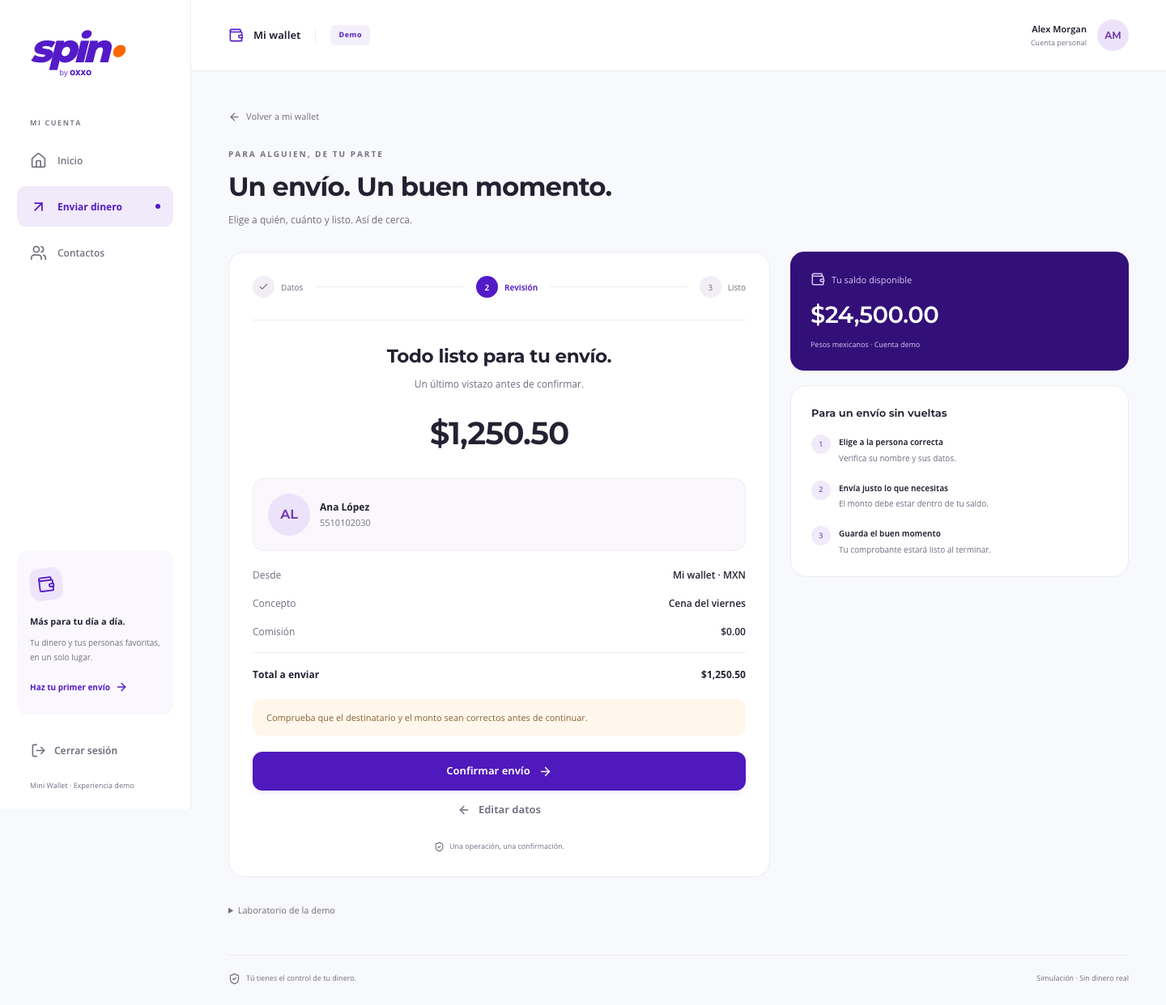
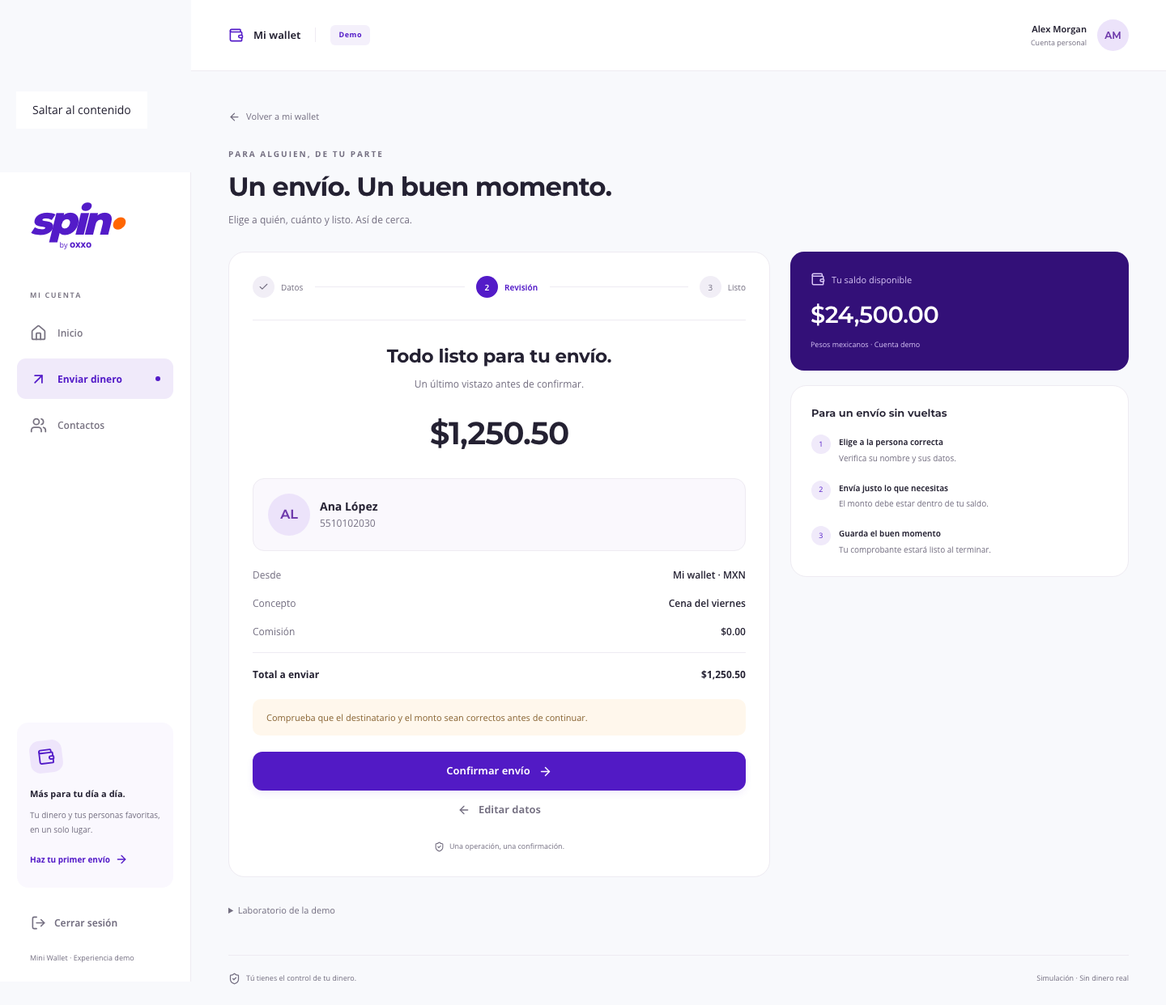
docs: finalize delivery evidence effort estimate and wallet previews

diff --git a/README.md b/README.md
@@ -1,6 +1,6 @@
 # Spin · Mini Wallet
 
-Una simulación de wallet construida con Next.js y TypeScript. Permite iniciar una sesión demo, consultar saldo y movimientos, guardar contactos, revisar un envío y obtener su comprobante. Incluye escenarios de fallo reproducibles y protección contra cargos duplicados.
+Una simulación de wallet construida con Next.js y TypeScript. Permite iniciar una sesión demo, consultar saldo y movimientos, guardar contactos, revisar un envío y obtener su comprobante. Conserva borradores entre pantallas, recupera operaciones inciertas y ofrece escenarios reproducibles y diagnóstico por solicitud.
 
 **No mueve dinero real ni autentica identidades.** Está diseñada para ejecutarse como un único proceso local de Node.js.
 
@@ -8,7 +8,7 @@ Una simulación de wallet construida con Next.js y TypeScript. Permite iniciar u
 
 ![Home de la wallet](docs/screenshots/home.png)
 
-[Login](docs/screenshots/login.png) · [Móvil](docs/screenshots/home-mobile.png) · [Revisión del envío](docs/screenshots/review.png) · [Comprobante](docs/screenshots/receipt.png)
+[Login](docs/screenshots/login.png) · [Home móvil](docs/screenshots/home-mobile.png) · [Envío móvil](docs/screenshots/transfer-mobile.png) · [Revisión del envío](docs/screenshots/review.png) · [Comprobante](docs/screenshots/receipt.png)
 
 ## Ejecutar
 
@@ -45,6 +45,7 @@ Los datos se reinician al cambiar de proceso. Si tenías una sesión anterior, v
 4. **Enviar dinero:** elige contacto, ingresa monto y concepto opcional. Los atajos de monto son editables. No se cobra comisión en esta simulación.
 5. **Revisar envío:** verifica destinatario, monto y total antes de confirmar. Editar conserva los datos del formulario.
 6. **Comprobante:** referencia, importe, contacto, concepto y fecha en Ciudad de México. Se puede recargar y abrir desde los movimientos. **Guardar comprobante** abre la impresión del navegador; selecciona Guardar como PDF.
+7. **Continuidad:** escribe un borrador, visita Contactos y vuelve. Durante un envío puedes ir a Inicio: el aviso indica su estado sin sacarte de la pantalla. «Hacer otro envío» inicia una intención nueva.
 
 ### Laboratorio de la demo
 
@@ -55,18 +56,20 @@ Con `NEXT_PUBLIC_DEMO_CONTROLS=true`, aparece un panel desplegable al final del 
 | Home          | Normal / Sin movimientos / Error de servicio | Carga, lista, vacío, error y recuperación sin borrar datos                                                          |
 | Transferencia | Aleatorio                                    | 60% éxito; 10% cada uno: red, fondos insuficientes, timeout y desconocido                                           |
 | Transferencia | Éxito                                        | Saldo actualizado y comprobante                                                                                     |
-| Transferencia | Error de red                                 | Fallo 503 sin cargo; seleccionar Éxito y reintentar                                                                 |
+| Transferencia | Error de red                                 | Fallo 503 simulado; verificar resultado y, si es desconocido, seleccionar Éxito y reintentar el mismo envío         |
 | Transferencia | Fondos insuficientes                         | Rechazo 422 y actualización de saldo; también ocurre realmente al exceder el disponible                             |
 | Transferencia | Timeout                                      | Simula un cargo confirmado cuya respuesta se perdió; **Verificar resultado** recupera el comprobante sin otro cargo |
-| Transferencia | Error desconocido                            | Fallback 500; seleccionar Éxito y reintentar                                                                        |
+| Transferencia | Error desconocido                            | Fallback 500; consultar resultado y, si sigue desconocido, reintentar la misma intención                            |
 
 El escenario forzado se mantiene seleccionado hasta cambiarlo; un reintento de un fallo de red forzado vuelve a fallar mientras siga seleccionado. Un pago ya confirmado devuelve siempre su comprobante, independientemente del escenario posterior.
 
-La UI trata los errores ambiguos como operaciones pendientes: conserva la misma clave. Si sales y regresas, recupera el envío pendiente en esa pestaña mediante `sessionStorage`. El cliente también cancela solicitudes que superen **8 segundos**. El timeout demostrativo del servidor responde 504 tras 1.8 segundos para no hacer lenta la evaluación.
+La UI trata los errores ambiguos como operaciones pendientes: conserva la misma clave. **Verificar resultado** hace un GET sin efectos. `unknown` no demuestra que el primer intento haya fallado; se permite consultar de nuevo o reintentar expresamente el mismo envío. La intención enviada se recupera en esa pestaña mediante `sessionStorage`; un borrador todavía no enviado vive solo en memoria entre rutas. El cliente cancela solicitudes que superen **8 segundos**; cancelar el fetch no revierte un pago. El timeout demostrativo del servidor responde 504 tras 1.8 segundos para no hacer lenta la evaluación.
 
 Si desactivas los controles y reinicias/recompilas, los headers de simulación se ignoran; las transferencias siguen siendo aleatorias. `NEXT_PUBLIC_` es configuración pública de build, nunca un secreto.
 
 ## Verificación
+
+Antes de ejecutar E2E en desarrollo, detén con `Ctrl+C` cualquier `npm run dev` de este mismo proyecto y deja libre el puerto 3100. Next.js bloquea un segundo servidor de desarrollo que utilice el mismo directorio de compilación, aunque escuche en otro puerto. Playwright inicia y detiene su propio servidor.
 
 ```bash
 npm run check           # formato, lint, tipos, unitarias y build
@@ -80,7 +83,7 @@ npm run test:watch      # pruebas unitarias durante cambios
 npm run format         # aplicar formato
 ```
 
-Verificación local: **69 pruebas unitarias** y **32 casos E2E**, aprobados tanto con servidor de desarrollo como con el build de producción. Formato, lint, tipos y compilación también aprobados.
+La suite cubre reglas de negocio, estados compartidos, sesiones, idempotencia, recuperación, diagnóstico y accesibilidad.
 
 Playwright ejecuta Chromium en escritorio y viewport móvil. La emulación móvil no sustituye pruebas en Safari/iOS reales. Usa contextos de sesión independientes y datos mock locales; no llama servicios financieros externos. Las pruebas incluyen axe sobre login, Home, resumen y comprobante.
 
@@ -91,7 +94,24 @@ NEXT_PUBLIC_DEMO_CONTROLS=true npm run build
 E2E_PRODUCTION=true npm run test:e2e
 ```
 
+Para comprobar el build con laboratorio deshabilitado:
+
+```bash
+NEXT_PUBLIC_DEMO_CONTROLS=false npm run build
+NEXT_PUBLIC_DEMO_CONTROLS=false E2E_PRODUCTION=true E2E_DEMO_DISABLED=true npm run test:e2e -- --project=desktop
+```
+
+Después recompila con `NEXT_PUBLIC_DEMO_CONTROLS=true` para volver a demostrar escenarios deterministas. Las operaciones normales siguen siendo aleatorias cuando el laboratorio está apagado.
+
 En PowerShell configura las variables con `$env:NEXT_PUBLIC_DEMO_CONTROLS="true"` y `$env:E2E_PRODUCTION="true"` antes del comando correspondiente.
+
+Última verificación local, **19 de noviembre de 2026**:
+
+- `npm run check`: formato, lint, tipos, **116 pruebas unitarias/de componentes** y build correctos.
+- Build de producción con laboratorio: **48 pruebas E2E** correctas, entre escritorio y viewport móvil.
+- Build de producción sin laboratorio: **1 smoke test** correcto.
+- `npm audit --omit=dev`: **0 vulnerabilidades** reportadas. La alerta de herramientas de desarrollo se detalla en límites conocidos.
+- Build final recompilado con laboratorio habilitado para facilitar la evaluación.
 
 ## Estructura
 
@@ -99,16 +119,17 @@ En PowerShell configura las variables con `$env:NEXT_PUBLIC_DEMO_CONTROLS="true"
 src/
   app/                     Rutas, layouts, errores globales y API
     (wallet)/              Rutas con comprobación de sesión en servidor
-    api/                   Session, wallet, contacts y transfers
+    api/                   Session, wallet, contacts, transfers y operations
   features/
-    auth/                  Formulario de acceso
+    auth/                  Formulario de acceso y frontera de sesión
     contacts/              Alta y búsqueda de contactos
     wallet/                Home y consulta de saldo/movimientos
-    transfers/             Formulario, revisión, hook de estados y comprobante
+    transfers/             Store Zustand, provider, formulario, revisión, aviso y comprobante
   components/              Shell, proveedores y UI compartida
   lib/                     Contratos Zod, dinero, HTTP, errores y eventos de sesión
-  server/                  Servicio mock, memoria de sesión y utilidades HTTP
+  server/                  Servicio mock, fixtures, simulación, configuración y diagnóstico HTTP
 tests/e2e/                 Flujos reales contra API y navegador
+tests/smoke/               Build sin laboratorio
 ```
 
 Los archivos `.test.ts(x)` están junto a las unidades que prueban. `next-env.d.ts` se genera automáticamente y no se versiona. `AGENTS.md` contiene las indicaciones que genera Next.js para sus herramientas.
@@ -121,6 +142,7 @@ Los archivos `.test.ts(x)` están junto a las unidades que prueban. `next-env.d.
 | TypeScript                        | Contratos y estados discriminados, configuración estricta                       |
 | Zod                               | Validación de entradas y respuestas; tipos inferidos de un contrato compartido  |
 | TanStack Query                    | Caché de datos remotos, carga, error e invalidación                             |
+| Zustand                           | Borrador e intención activa compartidos entre rutas, con instancia por wallet   |
 | Lucide React                      | Iconos SVG                                                                      |
 | Fontsource Montserrat / Open Sans | Fuentes locales sin solicitudes a Google en ejecución                           |
 | Vitest + Testing Library          | Reglas monetarias, servicio, HTTP, formulario y hook de envío                   |
@@ -131,24 +153,58 @@ Versiones exactas en `package.json` y resoluciones reproducibles en `package-loc
 
 ## Contrato HTTP
 
-Todos los endpoints responden JSON y `Cache-Control: private, no-store`. Los errores tienen `{ "error": { "code": "…", "message": "…" } }`.
+Todos los endpoints responden JSON y `Cache-Control: private, no-store`. Incluyen `X-Request-ID`. Los errores tienen `{ "error": { "code": "…", "message": "…", "requestId": "…" } }`.
 
-| Método y ruta            | Uso                                                                         |
-| ------------------------ | --------------------------------------------------------------------------- |
-| `POST /api/session`      | `{ identity }`; crea cookie HttpOnly y una sesión nueva                     |
-| `DELETE /api/session`    | Revoca sesión y elimina cookie                                              |
-| `GET /api/wallet`        | Usuario, `id` público de wallet, saldo en centavos, contactos y movimientos |
-| `POST /api/contacts`     | `{ walletId, name, identity }`; valida sesión y duplicados                  |
-| `POST /api/transfers`    | `{ walletId, recipientId, amountCents, concept, idempotencyKey }`           |
-| `GET /api/transfers/:id` | Comprobante de una transferencia perteneciente a la sesión                  |
+| Método y ruta                                    | Uso                                                                         |
+| ------------------------------------------------ | --------------------------------------------------------------------------- |
+| `POST /api/session`                              | `{ identity }`; crea cookie HttpOnly y una sesión nueva                     |
+| `DELETE /api/session`                            | Revoca sesión y elimina cookie                                              |
+| `GET /api/wallet`                                | Usuario, `id` público de wallet, saldo en centavos, contactos y movimientos |
+| `POST /api/contacts`                             | `{ walletId, name, identity }`; valida sesión y duplicados                  |
+| `POST /api/transfers`                            | `{ walletId, recipientId, amountCents, concept, idempotencyKey }`           |
+| `GET /api/transfers/:id`                         | Comprobante de una transferencia perteneciente a la sesión                  |
+| `GET /api/operations/:idempotencyKey?walletId=…` | Resultado confirmado con comprobante o `unknown`; consulta sin débito       |
 
 `walletId` identifica la generación de la wallet; no concede acceso. La cookie sigue siendo necesaria. Vincular las escrituras a esa generación evita confirmar un envío revisado bajo otra sesión. Los cambios de sesión invalidan las vistas de otras pestañas mediante `BroadcastChannel`; el servidor vuelve a comprobar la generación aunque el evento no llegue.
+
+## Diagnóstico local
+
+El servidor escribe eventos JSON en la terminal. Cada intento tiene un `requestId`; la intención conserva el mismo `operationId` (el UUID idempotente en esta demo). Busca la referencia que aparece en el error o en `X-Request-ID` de la pestaña Network del navegador.
+
+Un timeout simulado produce `transfer.committed` seguido de `request.finished` con HTTP 504. Eso significa que el débito ocurrió aunque la respuesta indicara un timeout. El GET de operaciones permite recuperar su comprobante. Un POST repetido con los mismos datos genera `transfer.replayed`, sin otro débito.
+
+Los eventos incluyen duración, ruta normalizada, código HTTP/error, entorno, versión y `simulation: true`; excluyen cuerpos, cookies, correos, teléfonos, conceptos e importes. Son diagnóstico local, no un servicio de alertas ni un registro contable durable.
+
+| Variable                    | Uso                                                                   |
+| --------------------------- | --------------------------------------------------------------------- |
+| `APP_ENV`                   | `local` (default), `uat`, `production` o `test`; etiqueta del entorno |
+| `APP_VERSION`               | Versión visible en logs; default `1.0.0`                              |
+| `NEXT_PUBLIC_DEMO_CONTROLS` | `true`/`false`, incorporada al build del navegador                    |
+| `DEMO_CONTROLS`             | Override opcional del servidor; debe coincidir con el flag público    |
+
+La configuración se valida antes de ejecutar cada operación del API. Si es inválida se responde con error y referencia. Para comparar UAT/producción, comprueba versión, configuración efectiva y evento de commit antes de asumir que un error HTTP significa rechazo financiero. No uses `APP_ENV` para sustituir el `NODE_ENV` que administra Next.js.
+
+## Cobertura del challenge
+
+| Requisito                                            | Implementación y evidencia                                                            |
+| ---------------------------------------------------- | ------------------------------------------------------------------------------------- |
+| Next.js + TypeScript, API mock                       | App Router, contratos Zod, `app/api` y servicio en memoria                            |
+| Login y sesión persistente                           | Formulario validado, carga/error, cookie mock y pruebas de sesión                     |
+| Home: saldo, usuario, movimientos, carga/vacío/error | `features/wallet`, controles de demo y recorrido E2E                                  |
+| Contactos favoritos y alta                           | Validación, guardado en sesión y selección en envío                                   |
+| Monto positivo, saldo suficiente y destinatario      | Validación de UI y del servicio, unitarias y solicitudes HTTP no confiables           |
+| Resumen, confirmación y comprobante                  | Componentes separados, payload revisado e historial de comprobantes                   |
+| Cinco resultados aleatorios y recuperación           | Simulador 60/10/10/10/10, consulta y reintento idempotente                            |
+| Estado y rendering justificados                      | `DECISIONS.md`, Zustand por sesión y Query para servidor                              |
+| Pruebas unitarias y E2E                              | `src/**/*.test.*`, `tests/e2e` y smoke de configuración                               |
+| Escalabilidad y mantenibilidad                       | Límites explícitos, concurrencia local, separación de reglas, contratos y diagnóstico |
+| Documentación y uso de IA                            | README, DECISIONS y AI_USAGE; revisión humana final por completar por el candidato    |
 
 ## Límites conocidos
 
 - **Mock de un proceso:** memoria volátil, sin base de datos, ledger contable, colas ni proveedor de pagos. Reiniciar el proceso borra sesiones, contactos y transferencias.
 - **Sesión ficticia:** cualquier identidad válida abre una wallet nueva con el mismo usuario y saldo inicial. No hay verificación de identidad, contraseña ni autorización de operaciones reales. Duración máxima: 24 horas.
-- **Idempotencia local:** se conserva durante la vida de la sesión/proceso; no es una garantía distribuida ni durable ante reinicios. `sessionStorage` solo recupera pendientes en la misma pestaña y si el navegador lo permite. Si está bloqueado, el reintento funciona mientras se mantenga la pantalla, pero no se garantiza la recuperación tras recargar.
+- **Idempotencia local:** se conserva durante la vida de la sesión/proceso; no es una garantía distribuida ni durable ante reinicios. `sessionStorage` solo recupera pendientes en la misma pestaña/wallet y si el navegador lo permite. Si está bloqueado, el reintento funciona mientras siga montado el provider autenticado, pero no se garantiza la recuperación tras recargar. No hay continuidad entre dispositivos ni después de cerrar sesión.
 - **Datos demostrativos:** los movimientos iniciales son una muestra reciente, no el historial completo que explica el saldo. Home muestra hasta 8 movimientos recientes.
 - **Límites de memoria:** hasta 500 sesiones activas, 50 contactos por sesión y 500 transferencias confirmadas por sesión. No sustituyen rate limiting ni medidas contra abuso.
 - **Sin internacionalización:** textos en español, moneda MXN, fechas visibles en Ciudad de México.
@@ -163,6 +219,4 @@ Todos los endpoints responden JSON y `Cache-Control: private, no-store`. Los err
 
 ## Tiempo invertido
 
-Registro de trabajo asistido de esta versión: aproximadamente **35 minutos transcurridos en sesiones activas**, el 18 de noviembre de 2026, en los intervalos 00:32–01:00 y 13:44–13:51, hora de Ciudad de México. Se excluye la pausa entre sesiones. Incluye implementación, pruebas y documentación; no equivale a horas de programación manual del candidato.
-
-La lectura y conversación previas y la revisión/práctica personal posterior no están medidas en esos intervalos. **Antes de entregar, sumar el tiempo personal real para declarar la dedicación total.**
+**Dedicación total estimada: aproximadamente 6 horas.** Incluye análisis del enunciado, decisiones de arquitectura, implementación asistida, revisión, pruebas y documentación. Es una estimación de dedicación, no un registro exacto de cronómetro ni una declaración de seis horas de programación manual.

diff --git a/DECISIONS.md b/DECISIONS.md
@@ -18,9 +18,9 @@ Los Route Handlers son el equivalente de API Routes en App Router. Mantienen exp
 
 ## 4. Estado local y datos remotos
 
-`useState` y un hook de estados discriminados controlan el formulario y su ciclo: `editing → review → submitting → success/error`. TanStack Query administra los datos remotos, caché, errores y revalidación. Se desactivan reintentos automáticos; la persona confirma los reintentos de pagos.
+`useState` conserva interacción local (búsqueda, errores de campo, formularios abiertos y escenario demo). Un store Zustand por árbol autenticado comparte el borrador y la intención de transferencia entre rutas. Permite visitar contactos sin perder datos y seguir un envío desde Home sin una redirección inesperada. Sus estados discriminados incluyen edición, revisión, envío, consulta, error y éxito. TanStack Query mantiene los datos del servidor; Zustand solo conserva el ID del comprobante confirmado, no otra copia del saldo o del comprobante.
 
-**Alternativas:** Context sin biblioteca requeriría implementar carga, caché e invalidación; Redux o Zustand serían útiles para estado global de cliente más extenso, pero no reemplazan automáticamente la gestión de datos remotos. No hay un store global duplicando el saldo del servidor.
+**Alternativas:** Context + reducer puede coordinar este flujo sin otra dependencia. Zustand aporta selectores y un controlador comprobable fuera de React. Redux Toolkit sería razonable con más flujos o convenciones compartidas de equipo. Ninguna opción sustituye la caché remota ni resuelve concurrencia entre usuarios. No se atribuye una mejora de rendimiento sin medición. La instancia se crea en un provider cliente, no como singleton mutable compartido por solicitudes SSR; la recuperación de almacenamiento ocurre después del montaje.
 
 ## 5. Contratos y validación
 
@@ -44,11 +44,13 @@ Eso evita sobregiros **solo en el proceso de Node que contiene la memoria**. No 
 
 ## 8. Timeout y resultado incierto
 
-Un timeout no prueba que el pago haya fallado. El escenario mock confirma el débito y luego devuelve 504, simulando una respuesta perdida. La UI conserva la clave y ofrece verificar el resultado. Antes del POST persiste el payload en `sessionStorage`, por generación de wallet, para restaurarlo al volver a esa pantalla. No permite editar una operación cuyo resultado sea ambiguo.
+Un timeout no prueba que el pago haya fallado. El escenario mock confirma el débito y luego devuelve 504. La UI conserva la clave y ofrece un GET autenticado de la operación: consultar nunca envía dinero. Si no hay registro confirmado, devuelve `unknown`; eso no prueba que la solicitud inicial no esté llegando. Solo entonces se ofrece explícitamente reintentar la misma intención y payload mediante POST. No se permite editar una operación ambigua.
+
+Antes del POST se persiste únicamente la intención enviada en `sessionStorage`, versionada y vinculada a la wallet. El borrador no enviado permanece en memoria entre rutas; no se promete conservarlo tras recargar. Una intención recuperada comienza con resultado por verificar, sin reenvío automático. Se eliminan pendientes al cambiar/cerrar sesión; un cleanup de navegación o recarga no borra la recuperación. Si el navegador bloquea almacenamiento, funciona mientras siga vivo el provider.
 
 Un 503 o error desconocido se trata conservadoramente como incierto en el cliente, aunque el escenario mock particular no haya debitado. La recuperación siempre reutiliza la clave. El cliente además implementa `AbortController` con un límite de 8 segundos; cancelar el fetch no revierte una operación del servidor.
 
-**Alternativas:** emitir una clave nueva en cada reintento podría duplicar cargos; reintentar automáticamente podría ocultar estados importantes. Para producción sería mejor un recurso de operación con consulta de estado, conciliación y notificación cuando el proveedor determine el resultado.
+**Alternativas:** emitir una clave nueva en cada reintento podría duplicar cargos; llamar POST desde un botón llamado «Consultar» ocultaría que puede iniciar el envío si el primero no llegó. La consulta actual solo conoce resultados confirmados; una integración real necesitaría estados durables, conciliación y notificaciones del proveedor.
 
 ## 9. Sesiones y pestañas
 
@@ -56,11 +58,13 @@ La cookie HttpOnly contiene una sesión opaca con duración de 24 horas y `SameS
 
 Las escrituras incluyen un `walletId` público distinto del token de sesión. El servidor compara esa generación con la cookie vigente. Esto evita que un formulario revisado en una sesión termine modificando otra al cambiar el login en otra pestaña. `BroadcastChannel` invalida las vistas y cachés en las otras pestañas; la validación del servidor funciona aunque ese mecanismo no esté disponible.
 
+Las claves de caché incluyen la wallet. Login, logout, caducidad detectada y eventos entre pestañas limpian datos privados y recuperación. El flujo se invalida síncronamente antes de limpiar la caché; esperar al desmontaje de React dejaba una ventana para que un POST pendiente repoblara un comprobante anterior. Cada callback comprueba también la generación de su runtime. El layout pasa solo identidad pública; la autorización de cada API sigue siendo obligatoria.
+
 **Alternativa:** localStorage para la sesión permitiría al navegador leer el token y no resolvería la autorización del API. Una cookie por sí sola tampoco vincula una intención revisada con la sesión original. Esta simulación no implementa autenticación real ni debe presentarse como un sistema bancario seguro.
 
 ## 10. Destinatario y resumen inmutables
 
-El resumen muestra los datos asociados al payload revisado, no una selección mutable que pueda cambiar por un callback asíncrono. La revisión queda bloqueada mientras se agrega un contacto. El servidor exige que el destinatario pertenezca a la wallet actual. El comprobante conserva una copia del destinatario en el momento del envío.
+El resumen muestra los datos asociados al payload revisado, no una selección mutable que pueda cambiar por un callback asíncrono. La revisión queda bloqueada mientras se agrega un contacto. El servidor exige que el destinatario pertenezca a la wallet actual. El comprobante conserva una copia de remitente y destinatario en el momento del envío; la UI obtiene esos datos del contrato. Home y comprobante comparten zona horaria de Ciudad de México.
 
 **Alternativa:** leer siempre el contacto actual permitiría que un cambio posterior alterara el significado de un comprobante histórico. Una aplicación real debería conservar los datos necesarios de la operación de acuerdo con sus reglas de privacidad y retención.
 
@@ -90,6 +94,8 @@ Vitest cubre parser monetario, contratos, servicio, concurrencia local, idempote
 
 Las regresiones cubren timeout tras débito, recarga, cambio de sesión entre pestañas, contacto que termina de guardarse durante la edición, sesión expirada y saldo consumido por otra operación. No se confunde una emulación de viewport con una prueba en un dispositivo real.
 
+También se corta una respuesta HTTP después de que el servidor procesa el cargo, se consulta su resultado sin otro POST, se ejecutan POST concurrentes y se comprueba que una consulta no altera el saldo. Las pruebas de componentes reproducen un refetch fallido con el formulario abierto y la carrera de invalidación de sesión. El build local de producción se comprueba con el laboratorio habilitado y deshabilitado. Las pruebas con 320 px y teclado complementan axe; ninguna prueba local demuestra carga distribuida real.
+
 ## 14. Edge cases atendidos
 
 - Cero, negativos, fracciones menores a un centavo, exponentes, cantidades enormes y saldo exacto.
@@ -109,11 +115,25 @@ Las regresiones cubren timeout tras débito, recarga, cambio de sesión entre pe
 
 1. Repositorio persistente con transacciones, ledger de doble partida, idempotencia durable y restricciones de integridad.
 2. Autenticación real, autorización por operación, verificación del beneficiario, límites y prevención de abuso según el producto.
-3. API de estado de operación y conciliación con el proveedor para resultados inciertos; outbox para eventos y notificaciones.
-4. Sesiones compartidas entre instancias, estrategia de despliegue y observabilidad: métricas, trazas, logs sin datos sensibles y alertas.
+3. Evolucionar la consulta de operaciones a estados durables y conciliación con proveedor; outbox para eventos y notificaciones.
+4. Sesiones compartidas entre instancias, estrategia de despliegue y exportación de señales: métricas, trazas y alertas sobre los eventos ya instrumentados.
 5. Paginación server-side e índices para movimientos/contactos. Presupuestos de rendimiento y pruebas de carga realistas.
 6. Pruebas en WebKit/Safari y dispositivos reales, auditoría manual con teclado/lector de pantalla y refinamiento de tamaños tipográficos.
 7. Separación de hojas CSS por funcionalidad, componentes de formulario adicionales e internacionalización si el producto requiere más idiomas.
 8. Dependencias actualizadas con revisión de compatibilidad y resolución de la alerta de desarrollo reportada en README.
 
-No se agregaron Kubernetes, microservicios, event sourcing o Redux solo por el volumen mencionado en el contexto. El camino a escala depende de garantías de datos, operación y mediciones; la UI por sí sola no demuestra capacidad para millones de usuarios.
+El camino a escala depende de garantías de datos, operación y mediciones; la UI por sí sola no demuestra capacidad para millones de usuarios. El backend simulado conserva explícitamente su límite de un proceso.
+
+## 16. Diagnóstico y configuración
+
+Cada intento HTTP recibe un `requestId` generado en servidor, devuelto en `X-Request-ID` y en el error. Una operación conserva su UUID idempotente entre intentos; cada intento tiene otra referencia HTTP. El evento `transfer.committed` se emite después del bloque de débito y antes de una respuesta perdida; `transfer.replayed` distingue recuperación de un cargo nuevo. Un 504 por sí solo no se usa para inferir un pago rechazado.
+
+Los logs JSON utilizan campos permitidos: ruta normalizada, método, referencia de solicitud/operación, duración, código HTTP/error, entorno y versión. Se marca `simulation: true`. Se excluyen cuerpos, cookies, identidades, conceptos e importes. El destino de logs se inyecta en pruebas y un fallo del observador no cambia el resultado financiero. Los identificadores se usan para búsquedas de logs, no como etiquetas de métricas de cardinalidad ilimitada.
+
+`APP_ENV`, `APP_VERSION` y flags se validan al entrar al API. `APP_ENV` distingue local/UAT/producción/test y no reemplaza `NODE_ENV`. `NEXT_PUBLIC_DEMO_CONTROLS` se fija al compilar; el override opcional de servidor debe coincidir. Una configuración inválida devuelve error con referencia y no ejecuta la operación. Los logs locales no equivalen a un sistema de alertas, almacenamiento de auditoría durable o tracing distribuido.
+
+**Alternativas:** OpenTelemetry permite propagar trazas reales entre servicios; una plataforma como CloudWatch puede recibir señales y disparar alertas. En esta simulación no hay esos servicios externos. Tampoco hay una transacción entre varios servicios que justifique Saga: una compensación financiera requeriría reglas y conciliación del backend, nunca un «rollback» decidido por React después de un timeout.
+
+## 17. Dedicación y alcance de entrega
+
+La dedicación total se estima en aproximadamente **6 horas**, incluyendo análisis, implementación asistida, revisión, pruebas y documentación. El registro de entrega está en [README](README.md#tiempo-invertido); se trata de una estimación, no de un cronometraje exacto. Las prioridades fueron el flujo solicitado, la consistencia de las operaciones, su recuperación y la capacidad de probar y explicar las decisiones.

diff --git a/AI_USAGE.md b/AI_USAGE.md
@@ -10,7 +10,7 @@ La asistencia abarcó contratos TypeScript/Zod, Route Handlers, servicio mock, c
 
 - Separación entre rutas, funcionalidades, contratos y servicio mock.
 - Centavos enteros para dinero y validación compartida con comprobación del servidor.
-- Estado local para el flujo y TanStack Query para datos remotos.
+- Estado local de interacción, Zustand para conservar borrador/intención entre rutas y TanStack Query para datos remotos, sin duplicar saldo ni comprobantes.
 - Idempotencia para reintentos, escenarios aleatorios con controles reproducibles y pruebas automatizadas.
 
 ## Qué se corrigió o descartó
@@ -23,6 +23,11 @@ La asistencia abarcó contratos TypeScript/Zod, Route Handlers, servicio mock, c
 - Se fijó el destinatario del resumen al payload revisado y se bloqueó la revisión durante el alta de un contacto.
 - Se endureció la validación de email, se agregó recuperación ante sesión vencida y se actualiza el saldo después de un rechazo por fondos insuficientes.
 - Se descartó forzar una versión inexistente de una dependencia transitiva; la limitación de la auditoría quedó documentada en README.
+- Se corrigió la caché de una sesión anterior al volver a entrar en la misma pestaña y se aisló por wallet. Una revisión posterior reprodujo una respuesta tardía que repoblaba la caché antes del desmontaje de React; se añadió invalidación síncrona del flujo y una prueba de regresión.
+- Se separó la consulta del resultado (GET sin efectos) del reenvío idempotente (POST). La recuperación se probó también cortando la respuesta HTTP después del débito.
+- Se conservaron formulario y datos ante un fallo de actualización en segundo plano, se restauró foco al editar/guardar contactos y se aumentó la legibilidad de destinatarios en móvil.
+- Se añadieron referencias de solicitud y logs con campos permitidos; se descartó registrar cuerpos completos o afirmar que esos logs constituyen monitoreo distribuido.
+- Se sustituyeron nombres escritos en componentes por datos de sesión/comprobante, y se unificó la zona horaria.
 
 ## Decisiones humanas y revisión final
 
